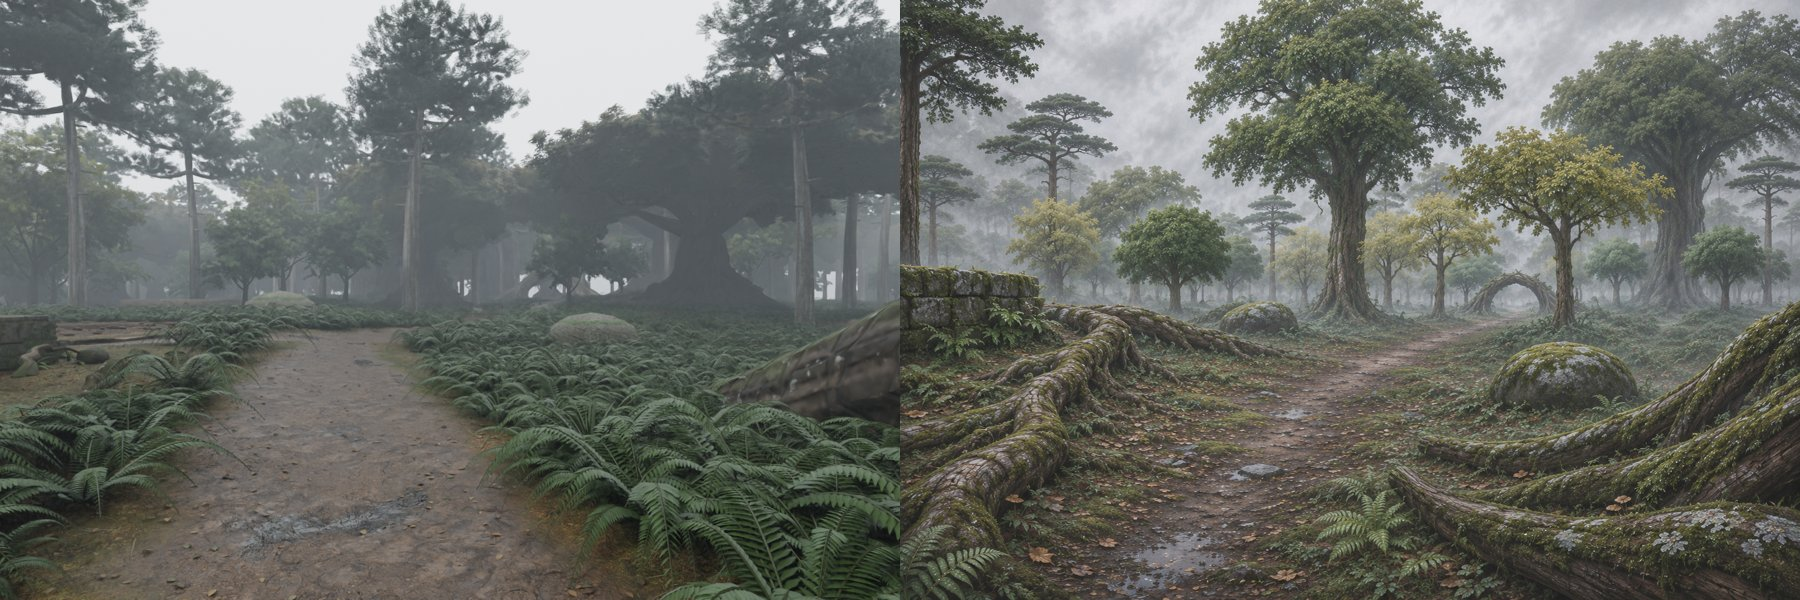
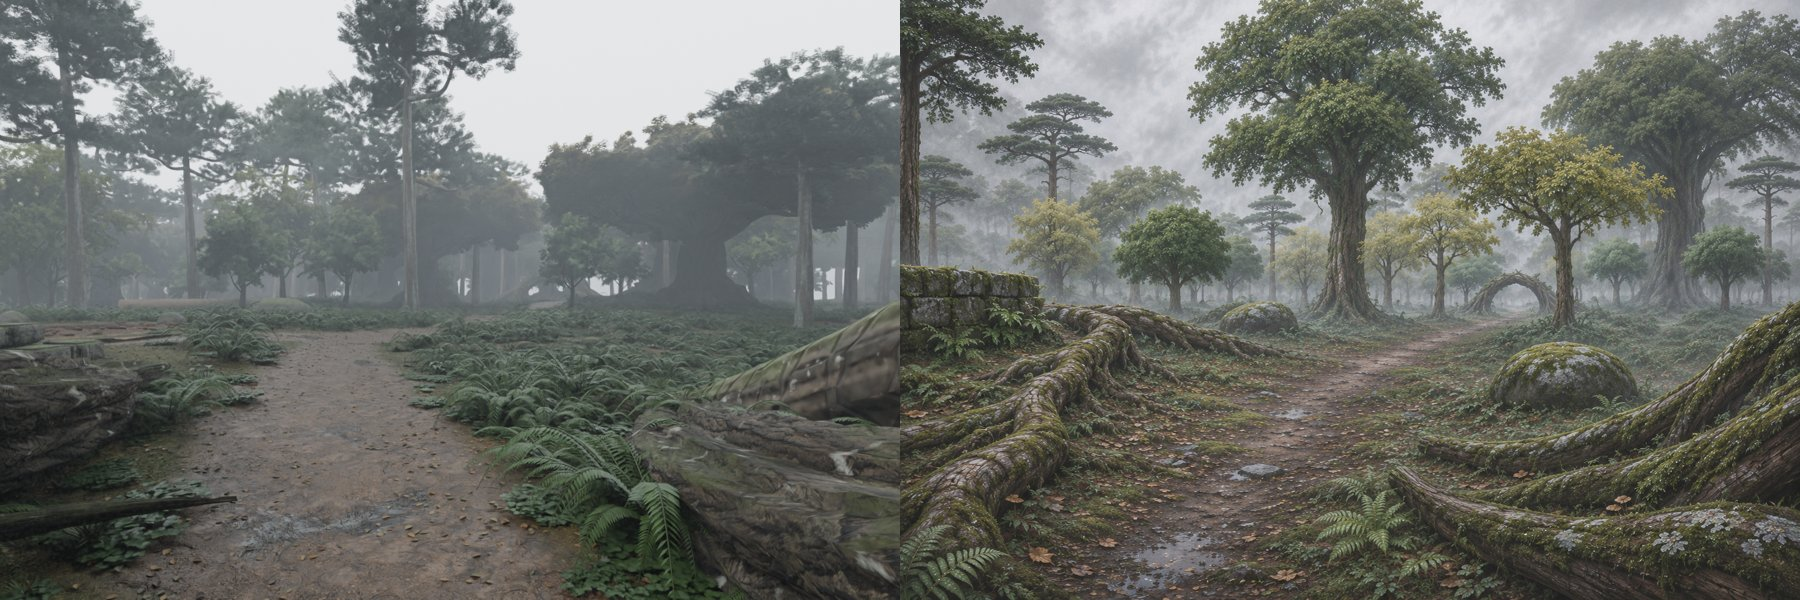
D2: RT01 scanned-bark surface roots (no path crossing, V5 path-side roots), darker boulders, trunk fill light-linked to god tree

diff --git a/art/source/core-d2-v1/roots_lib.py b/art/source/core-d2-v1/roots_lib.py
@@ -1,0 +1,47 @@
+# RT01 地表長根（神木延伸出來、半埋在土裡、長苔的長根）：掃描樹皮推進幾何（godtree_base.tube）
+#   blender -b --factory-startup -P roots_lib.py -- lib [norender]
+#   存 roots_lib.blend：RT01_Root_A–D，長度 1（沿 +X 從 0 到 1 單位長度 = 10 m），場景再依長度縮放
+import os, sys, math, random
+from mathutils import Vector, noise
+
+os.environ.setdefault('GT_NUMIN', '40')
+BASE = 'D:/chengtian/4-素材與快取/bark-sample/godtree_base.py'
+src = open(BASE, encoding='utf-8').read()
+exec(compile(src.split('# ---------------- 樹幹')[0], BASE, 'exec'))
+S_ = 'D:/chengtian/4-素材與快取/bark-sample/'
+L = 10.0
+made = []
+for vi, nm in enumerate('ABCD'):
+    rr = random.Random(40 + vi)
+    pts = []
+    side = rr.uniform(-1, 1)
+    for i in range(14):
+        t = i / 13
+        x = t * L
+        y = math.sin(t * rr.uniform(2.5, 4.5) + vi) * rr.uniform(.4, .9) + side * t * t * 1.2
+        # 根從樹幹那頭高起（0.9 m），往外貼地、中途偶爾拱起，最後鑽進土裡
+        z = .85 * (1 - t) ** 1.6 + .18 * max(0.0, math.sin(t * 9 + vi * 2)) * (1 - t) - .35 * t ** 3
+        pts.append((x, y, z))
+    r0 = rr.uniform(.55, .75)
+    o = tube(f'RT01_Root_{nm}', pts, radius=lambda t, r0=r0: r0 * (1 - t) ** .8 + .05,
+             flat=lambda t: .72, seed=vi * 3.3 + 1, rib=.16, twist=.08)
+    o.data.materials.append(MAT)
+    made.append(o)
+    # 分出一兩條細支根
+    for k in range(rr.randint(1, 2)):
+        t0 = rr.uniform(.25, .6)
+        i0 = int(t0 * 13)
+        p0 = Vector(pts[i0])
+        d = Vector((rr.uniform(.4, .9), rr.choice((-1, 1)) * rr.uniform(.5, 1.0), 0)).normalized()
+        sl = rr.uniform(2.5, 4.5)
+        spts = [tuple(p0 + d * sl * s + Vector((0, math.sin(s * 5) * .2, -.25 * s * s))) for s in [j / 7 for j in range(8)]]
+        r1 = r0 * (1 - t0) * .5
+        b = tube(f'RT01_Root_{nm}_b{k}', spts, radius=lambda t, r1=r1: r1 * (1 - t) + .03, flat=lambda t: .8,
+                 seed=vi * 7 + k, rib=.1, twist=.05)
+        b.data.materials.append(MAT)
+        made.append(b)
+for o in bpy.data.objects:
+    if o.type == 'MESH' and not o.name.startswith('RT01'):
+        bpy.data.objects.remove(o, do_unlink=True)
+print('ROOTS', [o.name for o in made], sum(len(p.vertices) - 2 for o in made for p in o.data.polygons))
+bpy.ops.wm.save_as_mainfile(filepath=S_ + 'roots_lib.blend')

diff --git a/art/source/core-d2-v1/ground/d2_props.py b/art/source/core-d2-v1/ground/d2_props.py
@@ -181,7 +181,7 @@ bpy.ops.object.origin_set(type='ORIGIN_CURSOR')
 print('ALTAR tris', sum(len(p.vertices) - 2 for p in alt.data.polygons), 'height', round(z + .2, 2))
 
 # ---------------- RK01 大苔石 A–E ----------------
-RK_MAT = stone_material('RK01_Stone', (.55, .56, .52), .8)
+RK_MAT = stone_material('RK01_Stone', (.55, .56, .52), .45)
 # 大石頭不能用碎石堆的掃描貼圖（會變一堆碎石）：底色、法線改成整塊岩面的雜訊
 _nt = RK_MAT.node_tree
 _b = next(x for x in _nt.nodes if x.type == 'BSDF_PRINCIPLED')
@@ -193,8 +193,8 @@ _n1.inputs['Detail'].default_value = 10
 _n1.inputs['Roughness'].default_value = .6
 _nt.links.new(_geo.outputs['Position'], _n1.inputs['Vector'])
 _cr = _nt.nodes.new('ShaderNodeValToRGB')
-_cr.color_ramp.elements[0].color = (.13, .13, .12, 1)
-_cr.color_ramp.elements[1].color = (.34, .34, .31, 1)
+_cr.color_ramp.elements[0].color = (.07, .065, .055, 1)
+_cr.color_ramp.elements[1].color = (.22, .21, .18, 1)
 _nt.links.new(_n1.outputs['Fac'], _cr.inputs[0])
 _nt.links.new(_cr.outputs[0], _tint.inputs[1])
 _bp = _nt.nodes.new('ShaderNodeBump')
